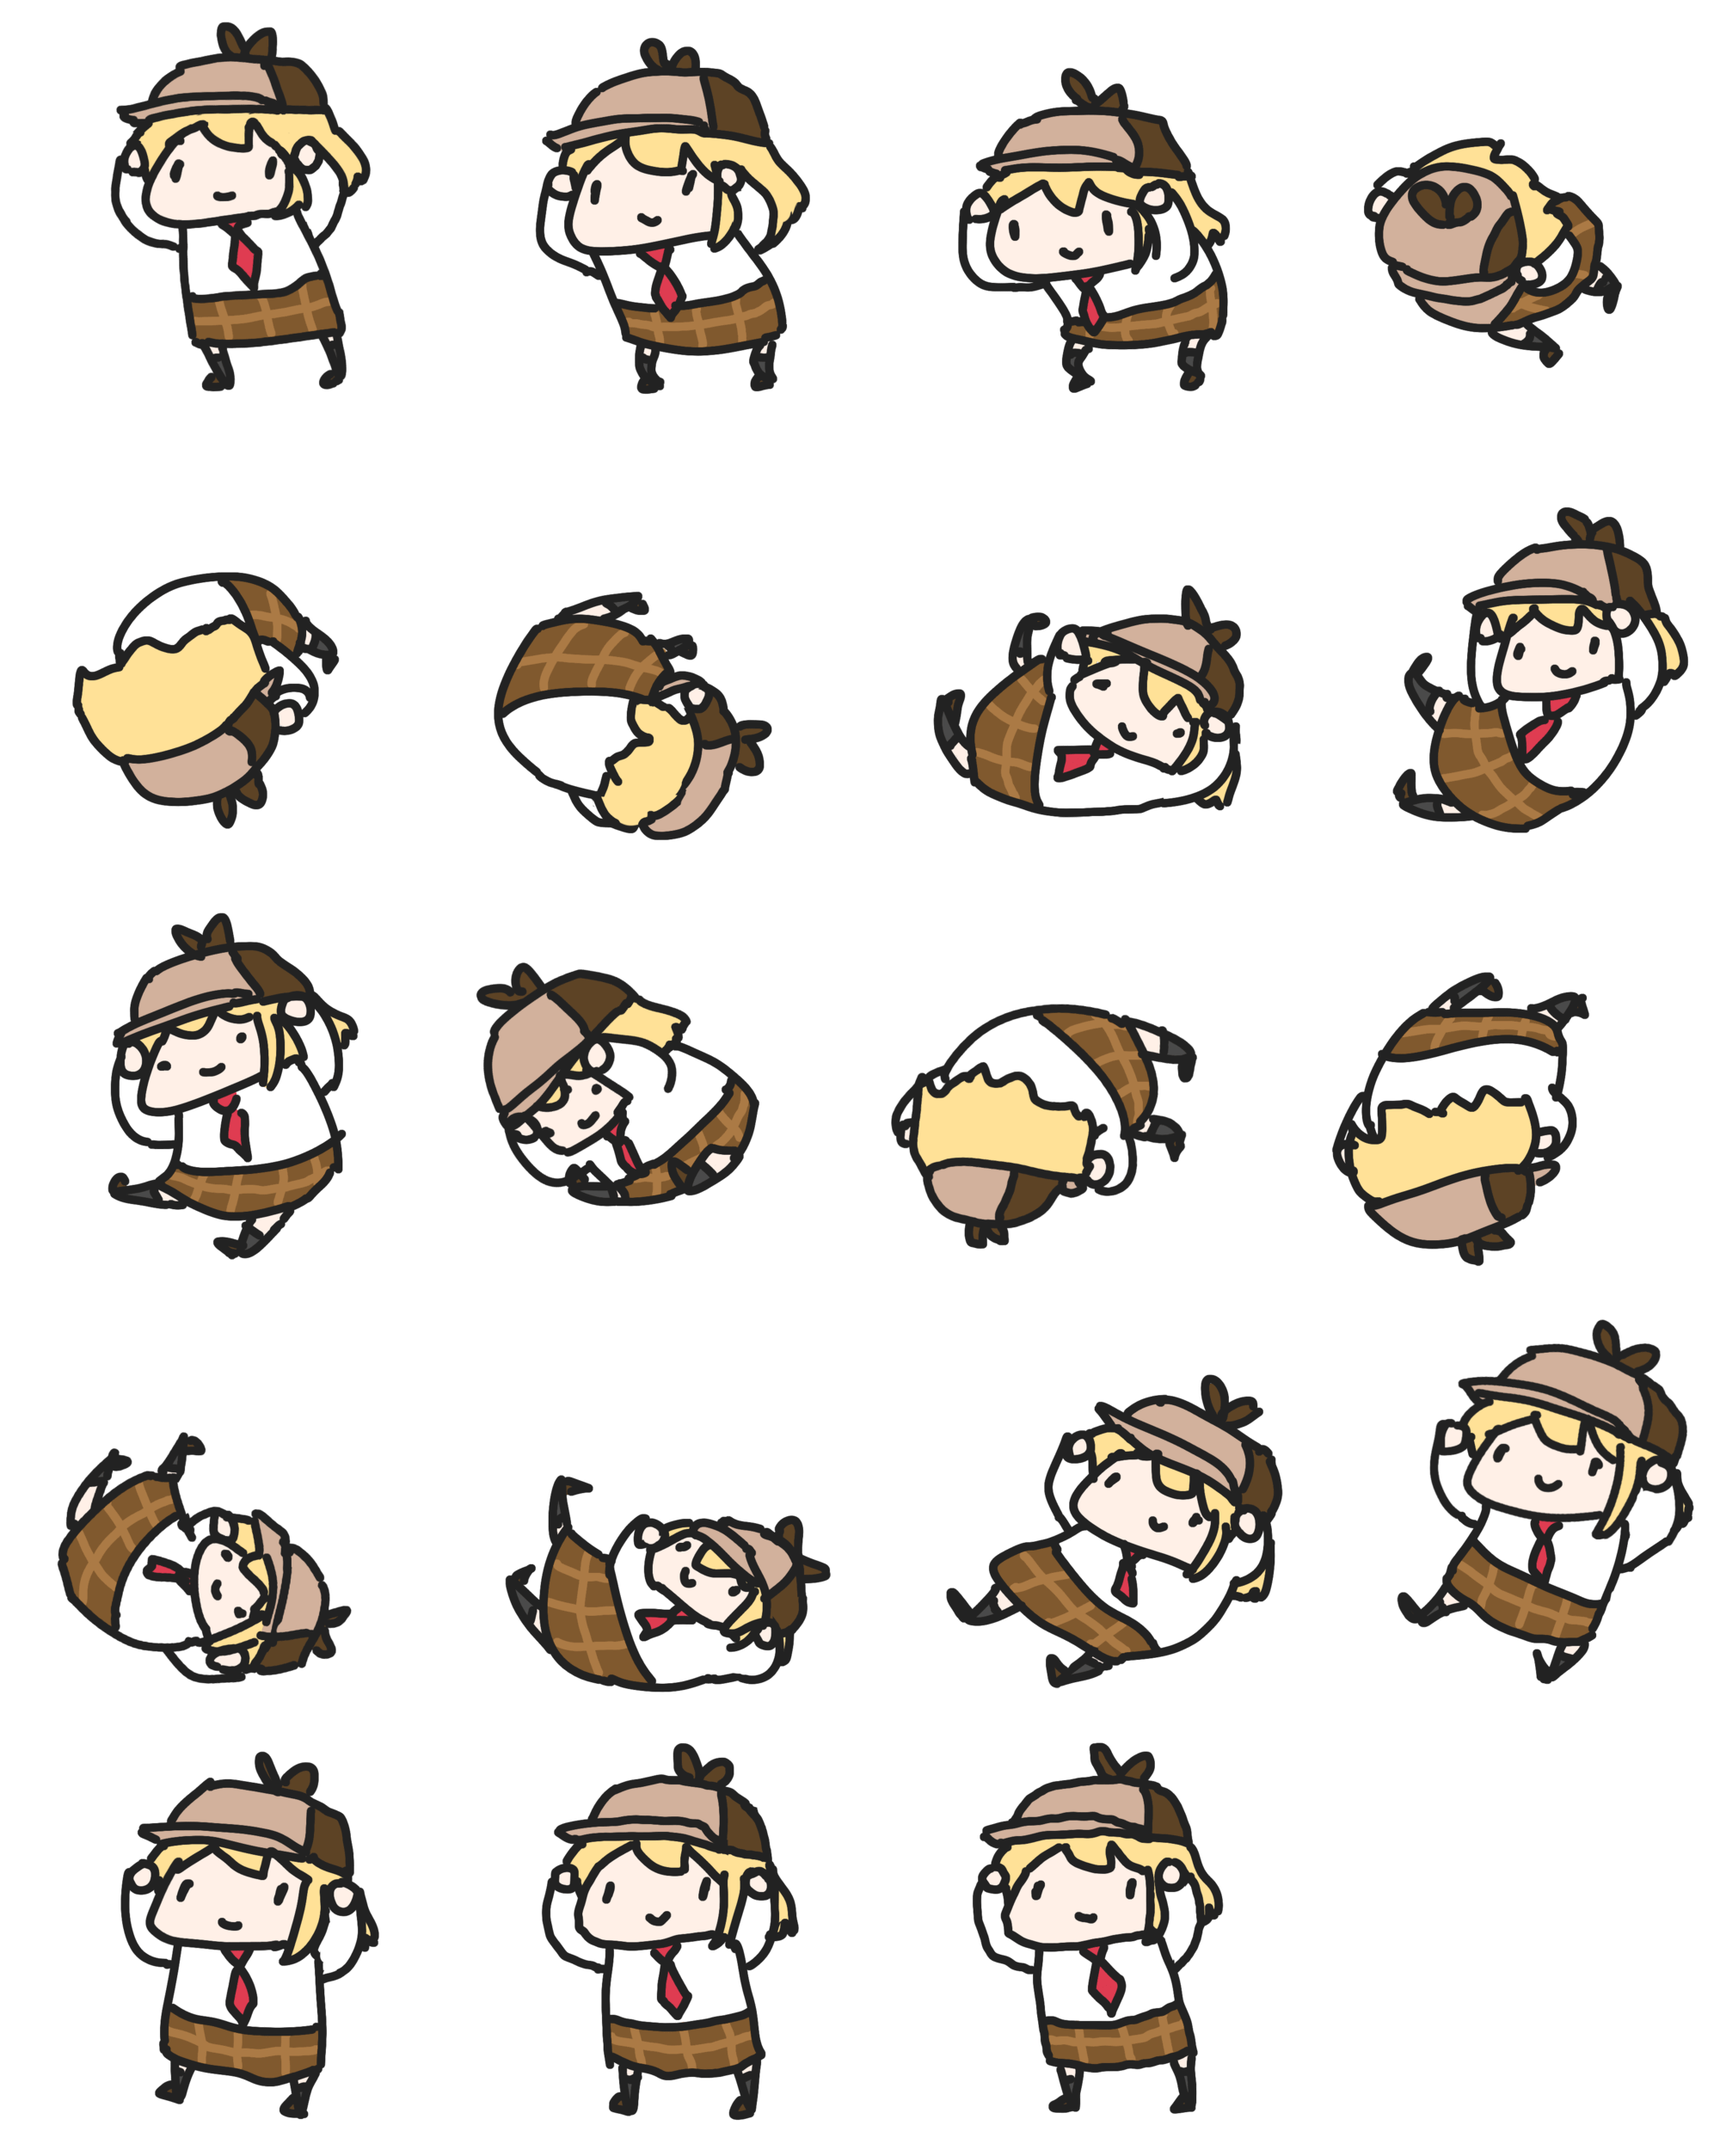
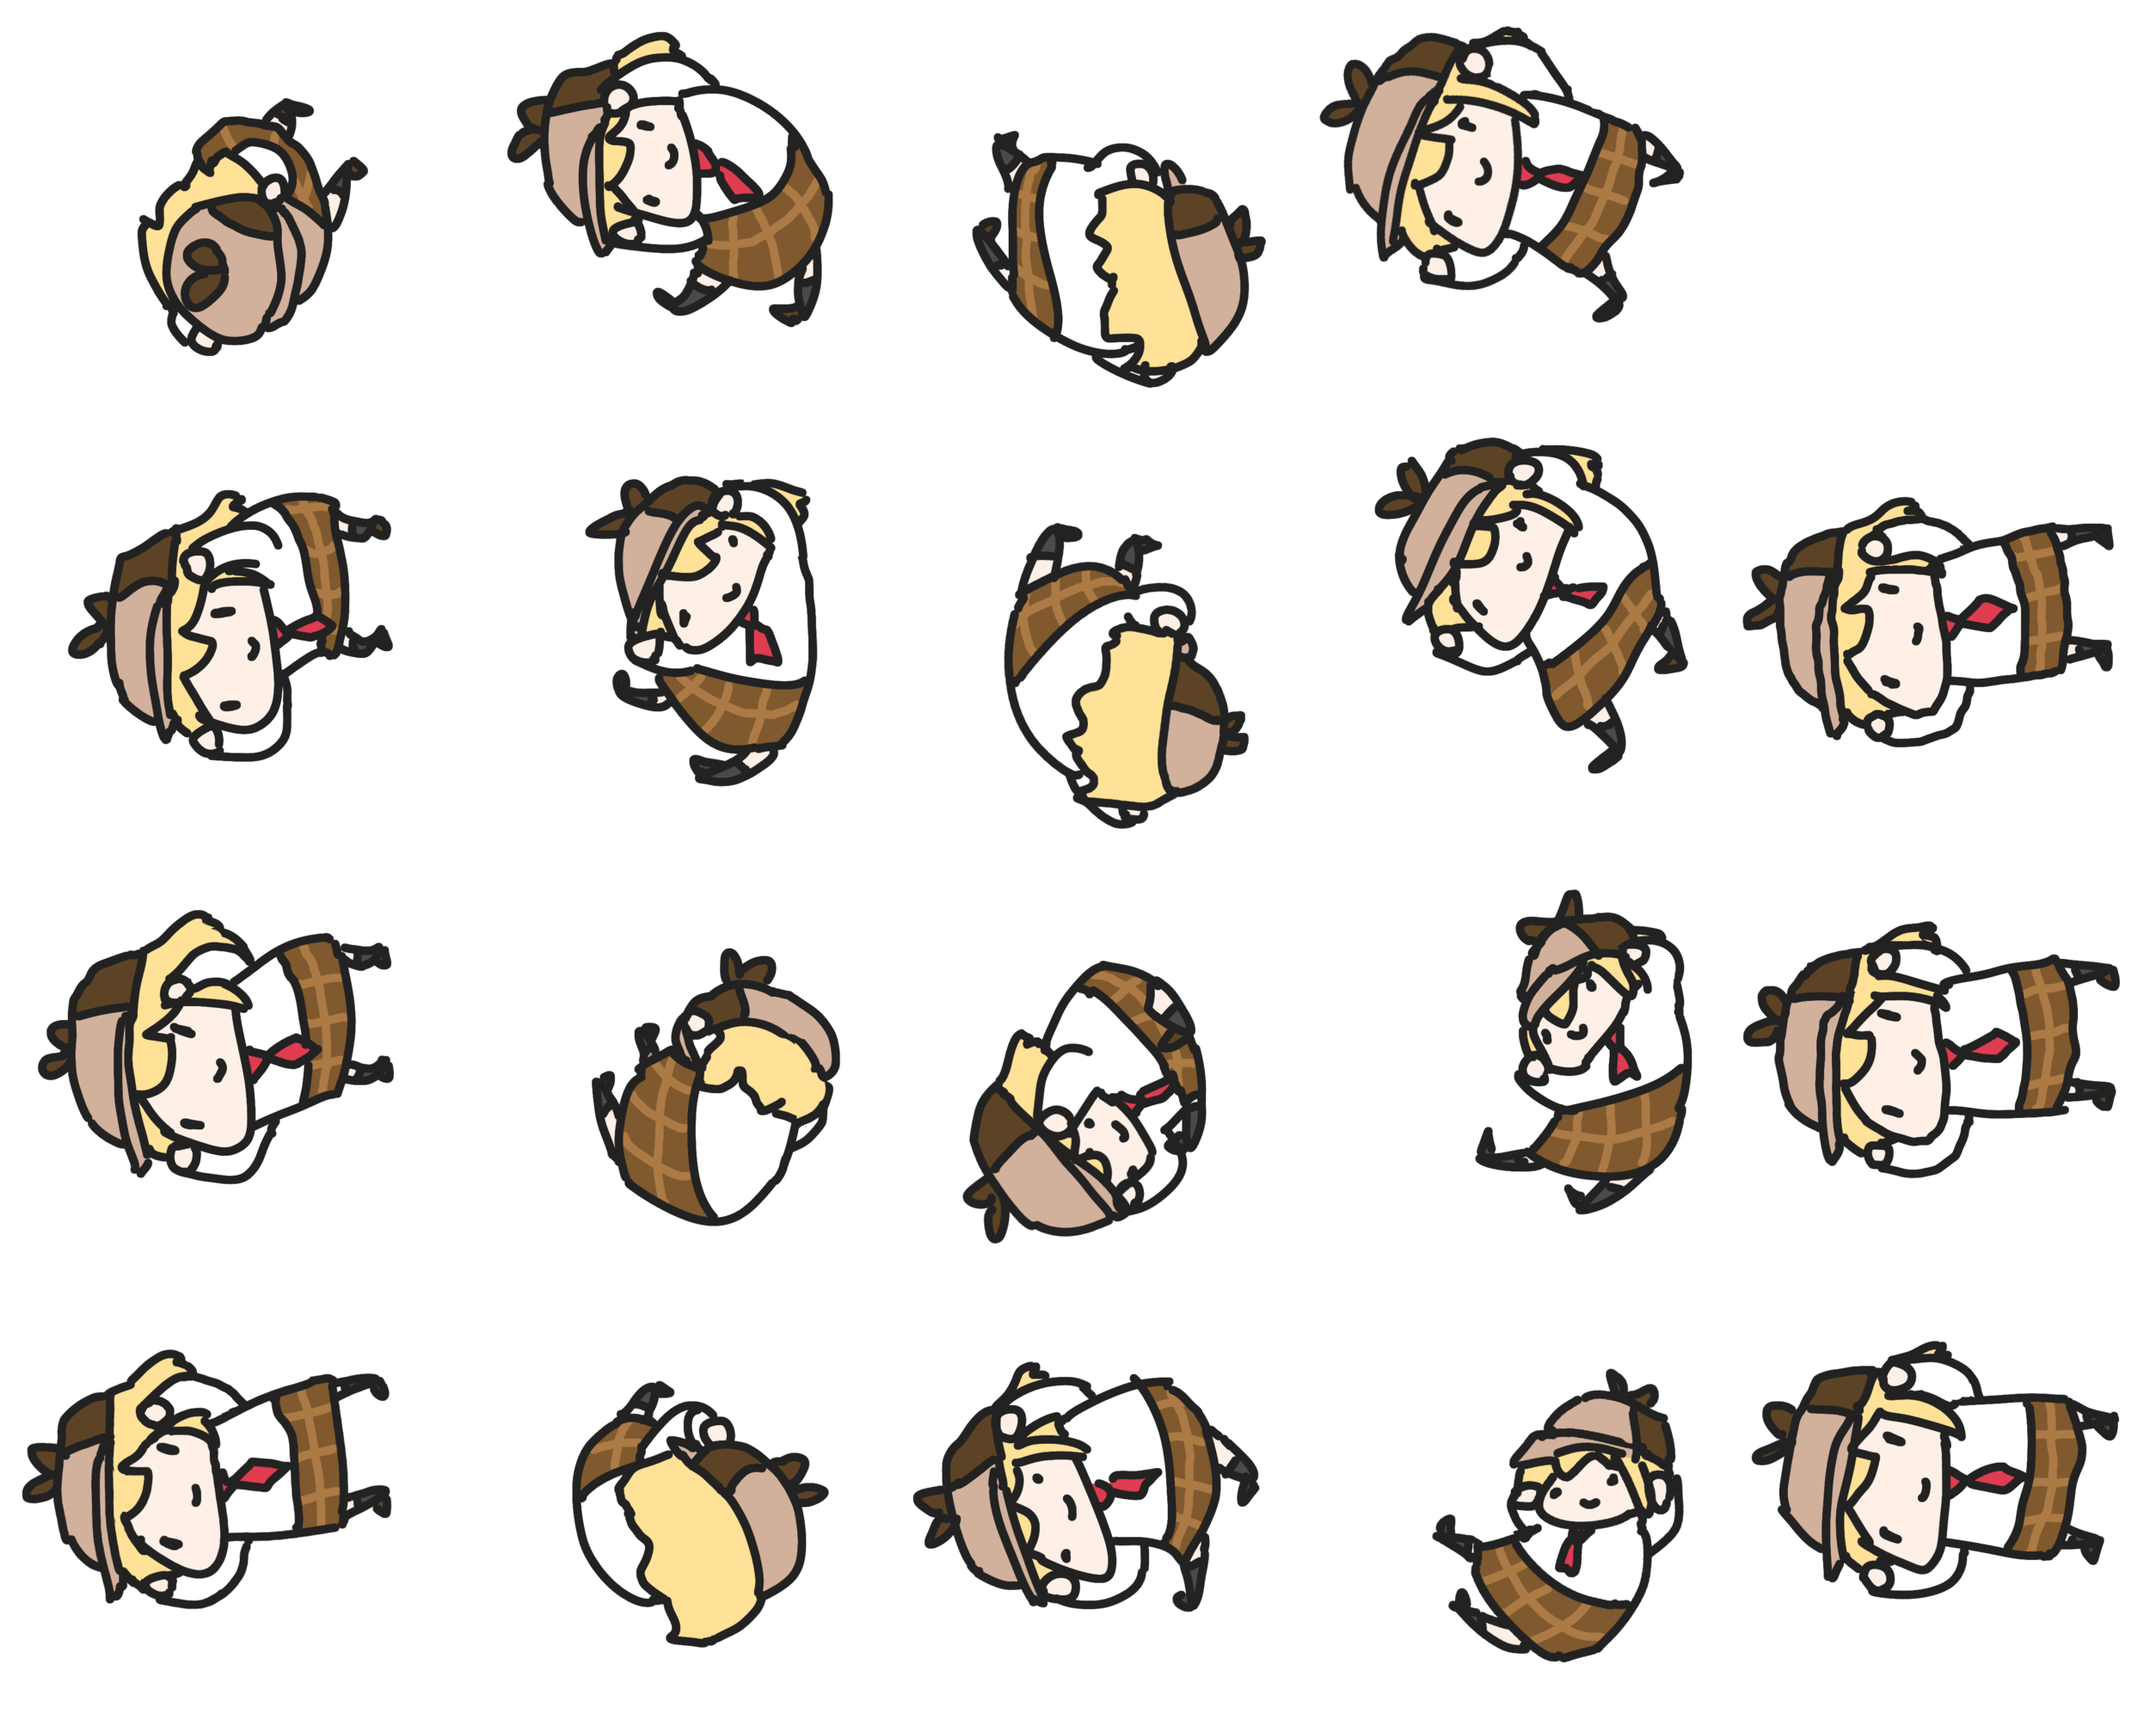
Add: Player and Monster animation

diff --git a/Blade-of-the-Flame/Component/LogicComponents/Player.cpp b/Blade-of-the-Flame/Component/LogicComponents/Player.cpp
@@ -16,18 +16,18 @@
 void Player::SetAnimation()
 {
 	ani_->AddAnimation("Idle");
-	for (int i = 0; i < 3; i++)
+	for (int i = 2; i < 5; i++)
 	{
-		std::string name = "Assets/Player_anime/Idle/tile" + std::to_string(i) + ".png";
+		std::string name = "Assets/Player_anime/Idle/image_" + std::to_string(i) + ".png";
 		ani_->AddDetail(name, "Idle");
 	}
-	for (int i = 1; i >= 0; i--)
+	for (int i = 4; i >= 2; i--)
 	{
-		std::string name = "Assets/Player_anime/Idle/tile" + std::to_string(i) + ".png";
+		std::string name = "Assets/Player_anime/Idle/image_" + std::to_string(i) + ".png";
 		ani_->AddDetail(name, "Idle");
 	}
+	ani_->SetTerm(500);
 
-	ani_->SetTerm(400);
 	ani_->ChangeAnimation("Idle");
 }
 
@@ -44,7 +44,7 @@ Player::Player(GameObject* owner) : LogicComponent(owner)
 	owner_->AddComponent<AnimationComp>();
 
 	trans_ = owner_->GetComponent<Transform>();
-	trans_->SetScale({ 30, 100 });
+	trans_->SetScale({ 45, 100 });
 	AEVec2 limit{ windowWidth, windowHeight };
 	limit = limit * 4.f;
 	trans_->SetLimit(limit);
@@ -58,8 +58,6 @@ Player::Player(GameObject* owner) : LogicComponent(owner)
 	CircleCollider* circleCol = owner_->GetComponent<CircleCollider>();
 	circleCol->SetLayer(Collider::P_CIRCLE);
 	circleCol->SetRadius(attractionRadius_);
-
-	//owner_->GetComponent<Sprite>()->SetColor({ 200, 200, 200 });
 
 	PlayerController* pCtrl = owner_->GetComponent<PlayerController>();
 	pCtrl->SetDashKey(AEVK_SPACE);
@@ -109,9 +107,12 @@ void Player::Update()
 	AEGfxSetCamPosition(pos.x, pos.y);
 
 	/* ATTACK */
+	if (AEInputCheckCurr(AEVK_Q))
+		readyMelee = !readyMelee;
+
 	static unsigned int cnt = 0;
 	std::chrono::duration<double> dt = std::chrono::system_clock::now() - timeStart_;
-	if (dt.count() >= curAttack_->GetCooldown() && AEInputCheckCurr(AEVK_LBUTTON))
+	if (dt.count() >= curAttack_->GetCooldown() && AEInputCheckCurr(AEVK_LBUTTON) && readyMelee)
 	{
 		audio_->SetPlaying(true);
 		timeStart_ = std::chrono::system_clock::now();
@@ -129,7 +130,7 @@ void Player::Update()
 	if (getCompass_ && findAltar_ && callBoss)
 	{
 		std::cout << "Next stage!!" << std::endl;
-		NextStageEvent* event = new NextStageEvent();
+		SpawnBossEvent* event = new SpawnBossEvent();
 		event->from_ = owner_;
 		EventManager::GetInstance().AddEvent(event);
 		callBoss = false;
@@ -175,15 +176,15 @@ void Player::LevelUp()
 	maxHp_ += int(maxHp_ * hpGrowthRate_ / 100);
 	hp_ = maxHp_;
 	
-	//if (level_ == 3)
-	//	curAttack_ = rangedAttack_;
+	LevelUpEvent* event = new LevelUpEvent();
+	event->from_ = owner_;
+	event->level = level_;
+	EventManager::GetInstance().AddEvent(event);
 }
 
 void Player::AddHp(int hp)
 {
-	std::cout << hp_ << " ";
 	hp_ += hp;
-	std::cout << hp_ << std::endl;
 	
 	if (hp_ > maxHp_)
 		hp_ = maxHp_;

diff --git a/Blade-of-the-Flame/Component/LogicComponents/Monster.cpp b/Blade-of-the-Flame/Component/LogicComponents/Monster.cpp
@@ -1,12 +1,30 @@
 #include "Monster.h"
 
+#include <iomanip>	// std::setw, std::setfill
+#include <sstream>	// std::stringstream
 #include "../../Event/Event.h"
 #include "../../Manager/EventManager.h"
 #include "../../Manager/GameObjectManager.h"
 #include "../../Manager/MonsterManager.h"
 #include "../../Manager/ExpItemManager.h"
 #include "../../Utils/Utils.h"
+#include "../AnimationComp.h"
 
+
+void Monster::SetAnimation()
+{
+	ani_->AddAnimation("Walk");
+	for (int i = 0; i <= 12; i++)
+	{
+		std::stringstream ss;
+		ss << "Assets/Monster_anime/tile" << std::setw(3) << std::setfill('0') << i << ".png";
+		std::string name = ss.str();
+		ani_->AddDetail(name, "Walk");
+	}
+	ani_->SetTerm(200);
+
+	ani_->ChangeAnimation("Walk");
+}
 
 Monster::Monster(GameObject* owner) : LogicComponent(owner), timeStart_()
 {
@@ -22,13 +40,18 @@ Monster::Monster(GameObject* owner) : LogicComponent(owner), timeStart_()
 	/* Set Monster component */
 	owner_->AddComponent<BoxCollider>();
 	owner_->AddComponent<Sprite>();
+	owner_->AddComponent<AnimationComp>();
 
-	owner_->GetComponent<Transform>()->SetScale({ 30, 30 });
-	owner_->GetComponent<Sprite>()->SetColor({ 200, 100, 20 });
+	owner_->GetComponent<Transform>()->SetScale({ 30, 100 });
+	//owner_->GetComponent<Sprite>()->SetColor({ 200, 100, 20 });
+	//owner_->GetComponent<Sprite>()->SetTexture("Assets/monster.png");
 
 	BoxCollider* col = owner_->GetComponent<BoxCollider>();
 	col->SetLayer(Collider::E_BODY);
 	col->SetHandler(static_cast<EventEntity*>(this));
+
+	ani_ = owner_->GetComponent<AnimationComp>();
+	SetAnimation();
 	
 	/* Set pointer */
 	playerTrans_ = GameObjectManager::GetInstance().GetObjectA("player")->GetComponent<Transform>();

diff --git a/Blade-of-the-Flame/Manager/MonsterManager.cpp b/Blade-of-the-Flame/Manager/MonsterManager.cpp
@@ -1,11 +1,17 @@
 #include "MonsterManager.h"
 
 #include <string>
+#include <typeindex>
+#include "../Event/Event.h"
+#include "../Manager/EventManager.h"
 
 MonsterManager::MonsterManager() : SpawnManager()
 {
-	spawnPeriod_ = 2.0;
-	spawnNumPerWave_ = 10;
+	spawnPeriod_ = 5.0;
+	spawnNumPerWave_ = 5;
+
+	EventManager::GetInstance().RegisterEntity(std::type_index(typeid(LevelUpEvent)), static_cast<EventEntity*>(this));
+	EventManager::GetInstance().RegisterEntity(std::type_index(typeid(SpawnBossEvent)), static_cast<EventEntity*>(this));
 }
 
 void MonsterManager::Initialize(int maxNum)
@@ -98,4 +104,21 @@ void MonsterManager::Clear()
 {
 	while (!pool_.empty())
 		pool_.pop();
+}
+
+void MonsterManager::OnEvent(BaseEvent* event)
+{
+	if (dynamic_cast<LevelUpEvent*>(event))
+	{
+		LevelUpEvent* lvlUp = static_cast<LevelUpEvent*>(event);
+		maxActiveNum_ = maxActiveNum_ * lvlUp->level;
+	}
+	else if (dynamic_cast<SpawnBossEvent*>(event))
+	{
+		maxActiveNum_ = 3;
+	}
+}
+
+void MonsterManager::OnCollision(CollisionEvent*)
+{
 }

diff --git a/Blade-of-the-Flame/Component/FillBar.cpp b/Blade-of-the-Flame/Component/FillBar.cpp
@@ -53,7 +53,7 @@ FillBar::FillBar(GameObject* owner) : GraphicsComponent(owner), showType_(), rel
 	text_->SetSize(1.f);
 
 	boss_ = nullptr;
-	EventManager::GetInstance().RegisterEntity(std::type_index(typeid(NextStageEvent)), static_cast<EventEntity*>(this));
+	EventManager::GetInstance().RegisterEntity(std::type_index(typeid(SpawnBossEvent)), static_cast<EventEntity*>(this));
 }
 
 FillBar::~FillBar()
@@ -77,7 +77,7 @@ void FillBar::Update()
 	case MONSTER_CNT:
 	{
 		value = MonsterManager::GetInstance().GetCapturedCount();
-		maxValue = 1;
+		maxValue = 10;
 		text_->SetString(std::to_string(int(value)) + " / " + std::to_string(int(maxValue)));
 		text_->SetPosition({ -0.05f, 0.93f });
 

diff --git a/Blade-of-the-Flame/Manager/MonsterManager.h b/Blade-of-the-Flame/Manager/MonsterManager.h
@@ -1,7 +1,8 @@
 #pragma once
 #include "SpawnManager.h"
+#include "../Event/EventEntity.h"
 
-class MonsterManager : public SpawnManager
+class MonsterManager : public SpawnManager, public EventEntity
 {
 private:
 	int capturedCount_ = 0;
@@ -31,6 +32,9 @@ public:
 	void Clear() override;
 
 	const int& GetCapturedCount() const { return capturedCount_; }
+
+	void OnEvent(BaseEvent*) override;
+	void OnCollision(CollisionEvent*) override;
 
 	friend class GameObjectManager;
 };

diff --git a/Blade-of-the-Flame/Component/LogicComponents/Compass.cpp b/Blade-of-the-Flame/Component/LogicComponents/Compass.cpp
@@ -22,7 +22,7 @@ Compass::Compass(GameObject* owner) : LogicComponent(owner)
 	owner_->active_ = false;
 
 	EventManager& eventMgr = EventManager::GetInstance();
-	eventMgr.RegisterEntity(std::type_index(typeid(NextStageEvent)), static_cast<EventEntity*>(this));
+	eventMgr.RegisterEntity(std::type_index(typeid(SpawnBossEvent)), static_cast<EventEntity*>(this));
 	eventMgr.RegisterEntity(std::type_index(typeid(CompassActiveEvent)), static_cast<EventEntity*>(this));
 }
 

diff --git a/Blade-of-the-Flame/Component/LogicComponents/Boss1.cpp b/Blade-of-the-Flame/Component/LogicComponents/Boss1.cpp
@@ -61,7 +61,7 @@ Boss1::Boss1(GameObject* owner) : LogicComponent(owner)
     isAction  = true;
 
     owner_->active_ = false;
-    EventManager::GetInstance().RegisterEntity(std::type_index(typeid(NextStageEvent)), static_cast<EventEntity*>(this));
+    EventManager::GetInstance().RegisterEntity(std::type_index(typeid(SpawnBossEvent)), static_cast<EventEntity*>(this));
 
     // Set animation
     AnimationComp* ani = owner_->GetComponent<AnimationComp>();

diff --git a/Blade-of-the-Flame/State/GameState.cpp b/Blade-of-the-Flame/State/GameState.cpp
@@ -29,9 +29,11 @@ void GameState::Init()
 	boss->AddComponent<Boss1>();
 
 	// Spawn managers
-	MonsterManager::GetInstance().Initialize(5);
-	ExpItemManager::GetInstance().Initialize(20);
-	ItemManager::GetInstance().Initialize(3);
+	MonsterManager::GetInstance().Initialize(230);
+	ExpItemManager::GetInstance().Initialize(230);
+	ItemManager::GetInstance().Initialize(20);
+
+	MonsterManager::GetInstance().SetMaxActiveNum(30);
 
 	SetFillBar();
 }

diff --git a/Blade-of-the-Flame/Component/LogicComponents/MagnetItem.cpp b/Blade-of-the-Flame/Component/LogicComponents/MagnetItem.cpp
@@ -10,7 +10,8 @@ MagnetItem::MagnetItem(GameObject* owner) : BaseItem(owner)
 
 	owner_->GetComponent<Transform>()->SetScale({ 50, 50 });
 	owner_->GetComponent<BoxCollider>()->SetLayer(Collider::ITEM);
-	owner_->GetComponent<Sprite>()->SetColor({ 255, 0, 255 });
+	//owner_->GetComponent<Sprite>()->SetColor({ 255, 0, 255 });
+	owner_->GetComponent<Sprite>()->SetTexture("Assets/magnet.png");
 
 	trans_ = owner_->GetComponent<Transform>();
 

diff --git a/Blade-of-the-Flame/Component/LogicComponents/HealthItem.cpp b/Blade-of-the-Flame/Component/LogicComponents/HealthItem.cpp
@@ -8,7 +8,8 @@ HealthItem::HealthItem(GameObject* owner) : BaseItem(owner)
 {
 	owner_->GetComponent<Transform>()->SetScale({ 50, 50 });
 	owner_->GetComponent<BoxCollider>()->SetLayer(Collider::ITEM);
-	owner_->GetComponent<Sprite>()->SetColor({ 255, 0, 0 });
+	//owner_->GetComponent<Sprite>()->SetColor({ 255, 0, 0 });
+	owner_->GetComponent<Sprite>()->SetTexture("Assets/cookie.png");
 
 	trans_ = owner_->GetComponent<Transform>();
 
